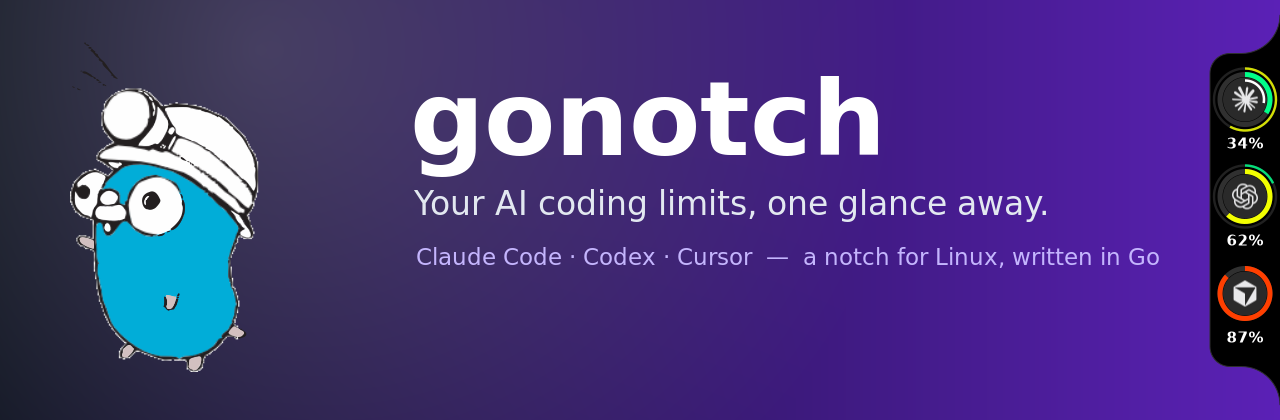
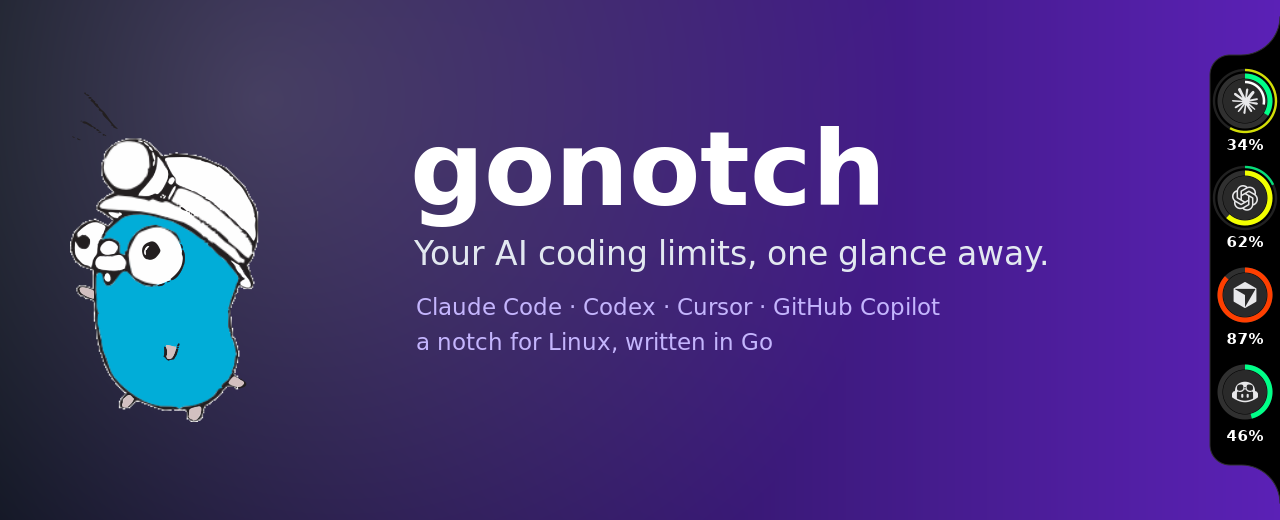
Show GitHub Copilot in the demo and README images, and document the rules on main
`gonotch demo` gains a Copilot ring, a paid plan's premium requests resetting on the 1st at
00:00 UTC, and `make screenshots` renders it into every README image. Four rings make the notch
taller, so the crops grow and the banner goes from 1280x420 to 1280x520. Its glow is now drawn on a
square covering the whole screen: the same pixels where the old one showed, without the seam the
taller crop exposed.

main now takes changes only through pull requests whose CI passes (a repository ruleset).
CONTRIBUTING.md says how a change lands and how a release is tagged once its pull request is
merged, and a pull request template carries the checklist. The READMEs gain the installer's
options, the interface language, GitHub among the trademarks and the settings' Updates section.

diff --git a/internal/providers/demo/demo.go b/internal/providers/demo/demo.go
@@ -28,7 +28,7 @@ func (p provider) Poll(_ context.Context, _ usage.Snapshot) (usage.Snapshot, tim
 	return s, time.Minute
 }
 
-// Providers returns the three rings with one reading in each colour band.
+// Providers returns the four rings, their readings spread over every colour band.
 func Providers() []providers.Provider {
 	return []providers.Provider{
 		provider{"claude", "Claude", "https://claude.ai/settings/usage", func(now time.Time) usage.Snapshot {
@@ -47,6 +47,13 @@ func Providers() []providers.Provider {
 		provider{"cursor", "Cursor", "https://cursor.com/dashboard?tab=usage", func(now time.Time) usage.Snapshot {
 			return usage.Snapshot{Headline: "included", Plan: "Pro", Windows: []usage.Window{
 				{ID: "included", Label: "Included usage", Used: 0.87, ResetsAt: now.Add(11 * 24 * time.Hour)},
+			}}
+		}},
+		provider{"copilot", "GitHub Copilot", "https://github.com/settings/copilot/features", func(now time.Time) usage.Snapshot {
+			// A paid plan meters premium requests only; they reset on the 1st, 00:00 UTC
+			reset := time.Date(now.Year(), now.Month()+1, 1, 0, 0, 0, 0, time.UTC)
+			return usage.Snapshot{Headline: "premium_interactions", Plan: "Individual", Windows: []usage.Window{
+				{ID: "premium_interactions", Label: "Premium requests", Used: 0.46, ResetsAt: reset},
 			}}
 		}},
 	}

diff --git a/internal/ui/snapshot_test.go b/internal/ui/snapshot_test.go
@@ -43,7 +43,7 @@ func TestSnapshots(t *testing.T) {
 	for _, ev := range demo.Sessions() {
 		a.Apply(ev)
 	}
-	for deadline := time.Now().Add(5 * time.Second); len(a.State().Providers) < 3; {
+	for deadline := time.Now().Add(5 * time.Second); len(a.State().Providers) < len(demo.Providers()); {
 		if time.Now().After(deadline) {
 			t.Fatal("the demo providers never published")
 		}
@@ -73,7 +73,7 @@ func TestSnapshots(t *testing.T) {
 
 	render("notch.png", t0)
 	frames("spin", 22, t0) // about 1.4 s: one turn of the arc
-	for i, name := range []string{"claude", "codex", "cursor"} {
+	for i, name := range []string{"claude", "codex", "cursor", "copilot"} {
 		u.hover = i
 		u.buildCard()
 		render("card-"+name+".png", t0)

diff --git a/README.pt-BR.md b/README.pt-BR.md
@@ -1,6 +1,6 @@
 <div align="center">
 
-<img src="docs/assets/banner.png" alt="gonotch — um notch na borda da tela mostrando o uso do Claude Code, Codex e Cursor" width="100%">
+<img src="docs/assets/banner.png" alt="gonotch — um notch na borda da tela mostrando o uso do Claude Code, Codex, Cursor e GitHub Copilot" width="100%">
 
 [![CI](https://github.com/leock9/gonotch/actions/workflows/ci.yml/badge.svg)](https://github.com/leock9/gonotch/actions/workflows/ci.yml)
 ![Go](https://img.shields.io/badge/Go-1.26-00ADD8?logo=go&logoColor=white)
@@ -42,11 +42,11 @@ direito abre o menu.
 
 | <img src="docs/assets/card.png" alt="O cartão do Claude: sessão atual, limites semanais e sessões" width="360"> | <img src="docs/assets/settings.png" alt="A janela de configurações" width="400"> |
 |:--:|:--:|
-| O cartão de hover | Configurações: anéis, ordem, borda, altura, auto-ocultar |
+| O cartão de hover | Configurações: anéis, ordem, borda, altura, auto-ocultar, atualizações |
 
 </div>
 
-A interface segue o idioma do sistema: português ou inglês.
+A interface segue o idioma do sistema (`LC_ALL`, `LC_MESSAGES` ou `LANG`): português ou inglês.
 
 | Anel | De onde vem o número |
 |---|---|
@@ -96,6 +96,16 @@ sudo apt install build-essential pkg-config libgtk-3-dev libgirepository1.0-dev
 git clone https://github.com/leock9/gonotch && cd gonotch
 make install    # → ~/.local/bin; a primeira compilação leva alguns minutos nos bindings de GTK
 ```
+
+#### Opções do instalador
+
+| Opção | |
+|---|---|
+| `--hooks` | Liga os hooks do Claude Code ao gonotch |
+| `--autostart` | Inicia o gonotch com a sessão |
+| `--version vX.Y.Z` | Uma versão específica em vez da última |
+| `--prefix DIR` | Instala em `DIR/bin` (padrão `~/.local`) |
+| `--uninstall` | Remove os binários, os hooks e a entrada de autostart |
 
 #### Atualizar e remover
 
@@ -243,7 +253,8 @@ make screenshots    # regera docs/assets a partir do código de desenho real, nu
   pode travar o loop principal em `XSync`; o handler de desenho solta na thread do GTK (`release` em `internal/ui/ui.go`).
 - Um `ld` do Homebrew antes de `/usr/bin` no `PATH` quebra o link; o Makefile passa `-B/usr/bin/`.
 
-Contribuições são bem-vindas — veja o [CONTRIBUTING.md](CONTRIBUTING.md).
+Contribuições são bem-vindas — veja o [CONTRIBUTING.md](CONTRIBUTING.md). A `main` só recebe pull
+requests com o CI passando; ninguém faz push direto nela.
 
 ## Créditos
 
@@ -255,7 +266,7 @@ os provedores do port em Rust foram a referência que esta implementação segue
 implementação nova, não um fork. O Codenotch é licenciado sob MIT.
 
 - Marcas dos provedores do [Lobe Icons](https://github.com/lobehub/lobe-icons) (MIT). São marcas
-  registradas da Anthropic, OpenAI e Anysphere, usadas só para identificar o produto cujo uso é
+  registradas da Anthropic, OpenAI, Anysphere e GitHub, usadas só para identificar o produto cujo uso é
   mostrado; o gonotch não tem afiliação com nenhuma delas.
 - O gopher do Go foi criado por [Renée French](https://reneefrench.blogspot.com/) e é licenciado sob
   [CC BY 4.0](https://creativecommons.org/licenses/by/4.0/). O banner usa o gopher de lanterna do

diff --git a/README.md b/README.md
@@ -1,6 +1,6 @@
 <div align="center">
 
-<img src="docs/assets/banner.png" alt="gonotch — a notch on the edge of the screen showing Claude Code, Codex and Cursor usage" width="100%">
+<img src="docs/assets/banner.png" alt="gonotch — a notch on the edge of the screen showing Claude Code, Codex, Cursor and GitHub Copilot usage" width="100%">
 
 [![CI](https://github.com/leock9/gonotch/actions/workflows/ci.yml/badge.svg)](https://github.com/leock9/gonotch/actions/workflows/ci.yml)
 ![Go](https://img.shields.io/badge/Go-1.26-00ADD8?logo=go&logoColor=white)
@@ -41,9 +41,11 @@ session to jump to its terminal; click a ring to read it again; right-click for 
 
 | <img src="docs/assets/card.png" alt="The Claude card: current session, weekly limits and sessions" width="360"> | <img src="docs/assets/settings.png" alt="The settings window" width="400"> |
 |:--:|:--:|
-| The hover card | Settings: rings, order, edge, height, auto-hide |
+| The hover card | Settings: rings, order, edge, height, auto-hide, updates |
 
 </div>
+
+The interface follows the system's language (`LC_ALL`, `LC_MESSAGES` or `LANG`): Portuguese or English.
 
 | Ring | Where the number comes from |
 |---|---|
@@ -92,6 +94,16 @@ sudo apt install build-essential pkg-config libgtk-3-dev libgirepository1.0-dev
 git clone https://github.com/leock9/gonotch && cd gonotch
 make install    # → ~/.local/bin; the first build compiles the GTK bindings for several minutes
 ```
+
+#### Installer options
+
+| Option | |
+|---|---|
+| `--hooks` | Wire Claude Code's hooks to gonotch |
+| `--autostart` | Start gonotch at login |
+| `--version vX.Y.Z` | A given release instead of the latest |
+| `--prefix DIR` | Install into `DIR/bin` (default `~/.local`) |
+| `--uninstall` | Remove the binaries, the hooks and the autostart entry |
 
 #### Update and uninstall
 
@@ -236,7 +248,8 @@ make screenshots    # re-render docs/assets from the real drawing code, in a con
   main loop in `XSync`; the draw handler releases it on the GTK thread instead (`release` in `internal/ui/ui.go`).
 - A Homebrew `ld` ahead of `/usr/bin` on `PATH` breaks the link; the Makefile passes `-B/usr/bin/`.
 
-Contributions are welcome — see [CONTRIBUTING.md](CONTRIBUTING.md).
+Contributions are welcome — see [CONTRIBUTING.md](CONTRIBUTING.md). `main` only takes pull requests
+whose CI passes; nobody pushes to it directly.
 
 ## Credits
 
@@ -248,7 +261,7 @@ there; the Rust port's providers were the reference this implementation follows.
 implementation, not a fork. Codenotch is MIT-licensed.
 
 - Provider marks from [Lobe Icons](https://github.com/lobehub/lobe-icons) (MIT). They are trademarks
-  of Anthropic, OpenAI and Anysphere, used only to identify the product whose usage is shown; gonotch
+  of Anthropic, OpenAI, Anysphere and GitHub, used only to identify the product whose usage is shown; gonotch
   is not affiliated with any of them.
 - The Go gopher was designed by [Renée French](https://reneefrench.blogspot.com/) and is licensed
   under [CC BY 4.0](https://creativecommons.org/licenses/by/4.0/). The banner uses the headlamp gopher

diff --git a/CONTRIBUTING.md b/CONTRIBUTING.md
@@ -37,13 +37,33 @@ gonotch demo # or bin/gonotch demo: the UI with made-up data, no accounts needed
 - **UI changes:** attach a screenshot, and run `make screenshots` if the README's images change.
   It renders them in a container from the real drawing code (`internal/ui/snapshot_test.go`).
 
+## How a change lands
+
+`main` is protected: every change reaches it through a pull request, the maintainer's included.
+
+- **Branch off `main`** and open a pull request against it. Direct pushes, force pushes and deleting
+  `main` are refused.
+- **CI must pass**: *Core tests*, *Build (ubuntu-22.04)* and *Build (ubuntu-24.04)*. The branch must
+  also be up to date with `main`, so rebase it (or use *Update branch*) when `main` moved.
+- **Every review conversation is resolved** before merging.
+- **History stays linear**: merge with *Squash and merge* or *Rebase and merge*; merge commits are
+  refused. A squashed pull request's title and description become the commit, so write them the way
+  the log reads: what changed and why.
+
 ## Releasing
 
-Note each change under `## [Unreleased]` in [CHANGELOG.md](CHANGELOG.md) as it lands. To release,
-rename that section to `## [X.Y.Z] - YYYY-MM-DD`, add its compare link at the bottom, commit, and
-push a `vX.Y.Z` tag: the release workflow builds on Ubuntu 22.04 and publishes the tarball, the
-`.deb` and `SHA256SUMS` with that section as the release notes (`scripts/release-notes.sh`). A tag
-without a section fails before anything is built. Running notches see the release within a day.
+Note each change under `## [Unreleased]` in [CHANGELOG.md](CHANGELOG.md) in the pull request that
+makes it. To release, open a pull request that renames that section to `## [X.Y.Z] - YYYY-MM-DD` and
+adds its compare link at the bottom. Once it is merged, tag that commit and push the tag (tags are
+not covered by the rules on `main`):
+
+```bash
+git fetch origin && git tag vX.Y.Z origin/main && git push origin vX.Y.Z
+```
+
+The release workflow builds on Ubuntu 22.04 and publishes the tarball, the `.deb` and `SHA256SUMS`
+with that section as the release notes (`scripts/release-notes.sh`). A tag without a section fails
+before anything is built. Running notches see the release within a day.
 
 ## Adding a provider
 

diff --git a/.github/pull_request_template.md b/.github/pull_request_template.md
@@ -1,0 +1,7 @@
+<!-- What changes, and why. With "Squash and merge" this text becomes the commit on main. -->
+
+- [ ] A user-facing change is noted under `## [Unreleased]` in `CHANGELOG.md`
+- [ ] New logic in the core comes with a test; `make test` passes
+- [ ] The core stays cgo-free (nothing outside `internal/ui` needs GTK)
+- [ ] UI change: a screenshot is attached, and `make screenshots` was run if the README's images change
+- [ ] `README.md` and `README.pt-BR.md` agree

diff --git a/CHANGELOG.md b/CHANGELOG.md
@@ -19,6 +19,10 @@ release workflow refuses a tag without one.
 - `gonotch version` and `gonotch status` mention a newer release once one has been found.
 - Release notes: each release's notes on GitHub now come from this changelog.
 
+### Changed
+
+- `gonotch demo` shows a GitHub Copilot ring too, and so do the README's images.
+
 ## [0.2.0] - 2026-09-18
 
 ### Added
